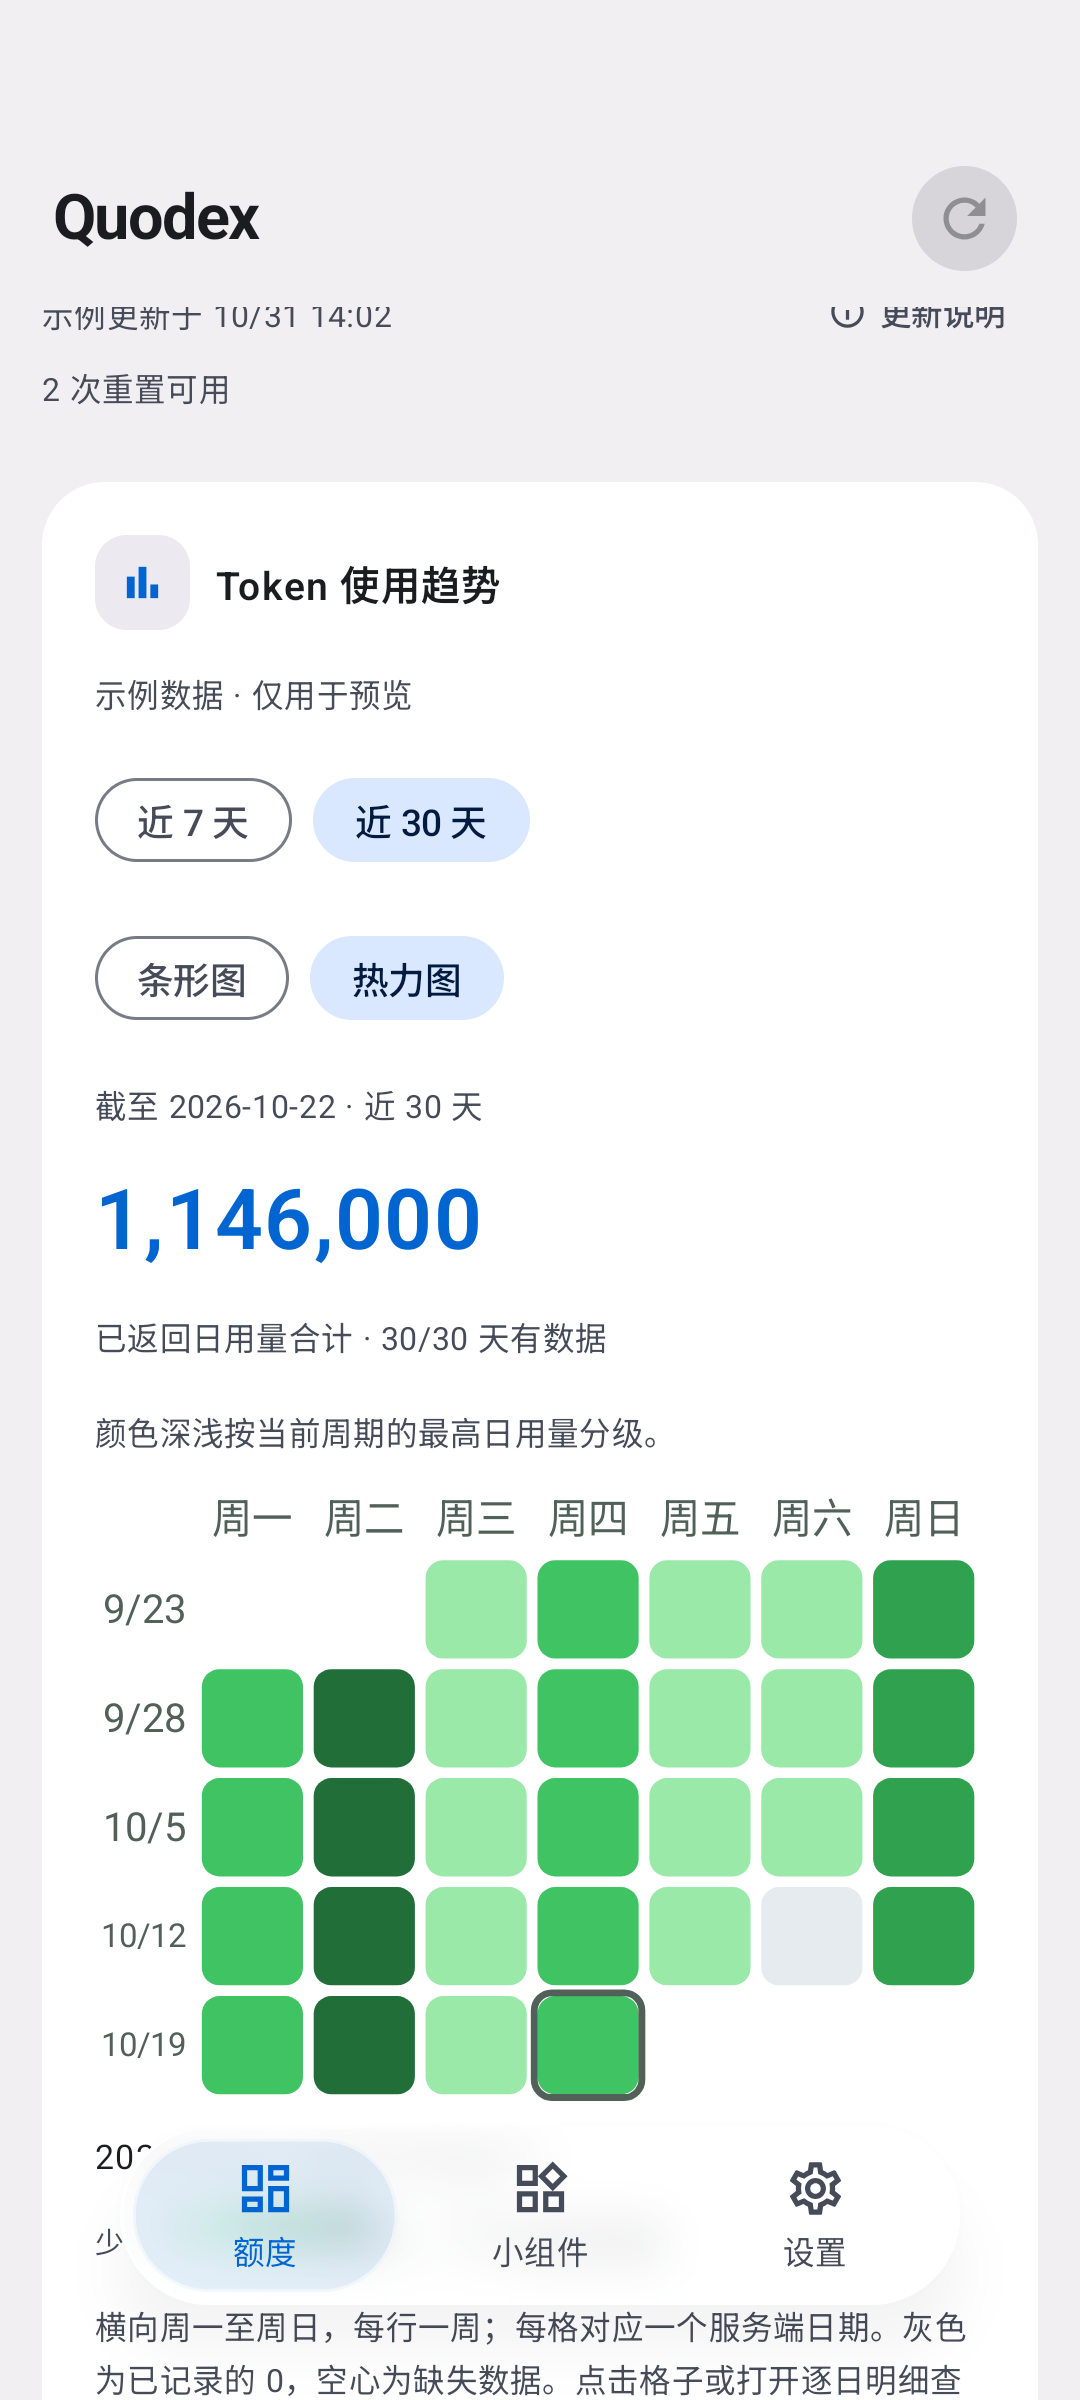
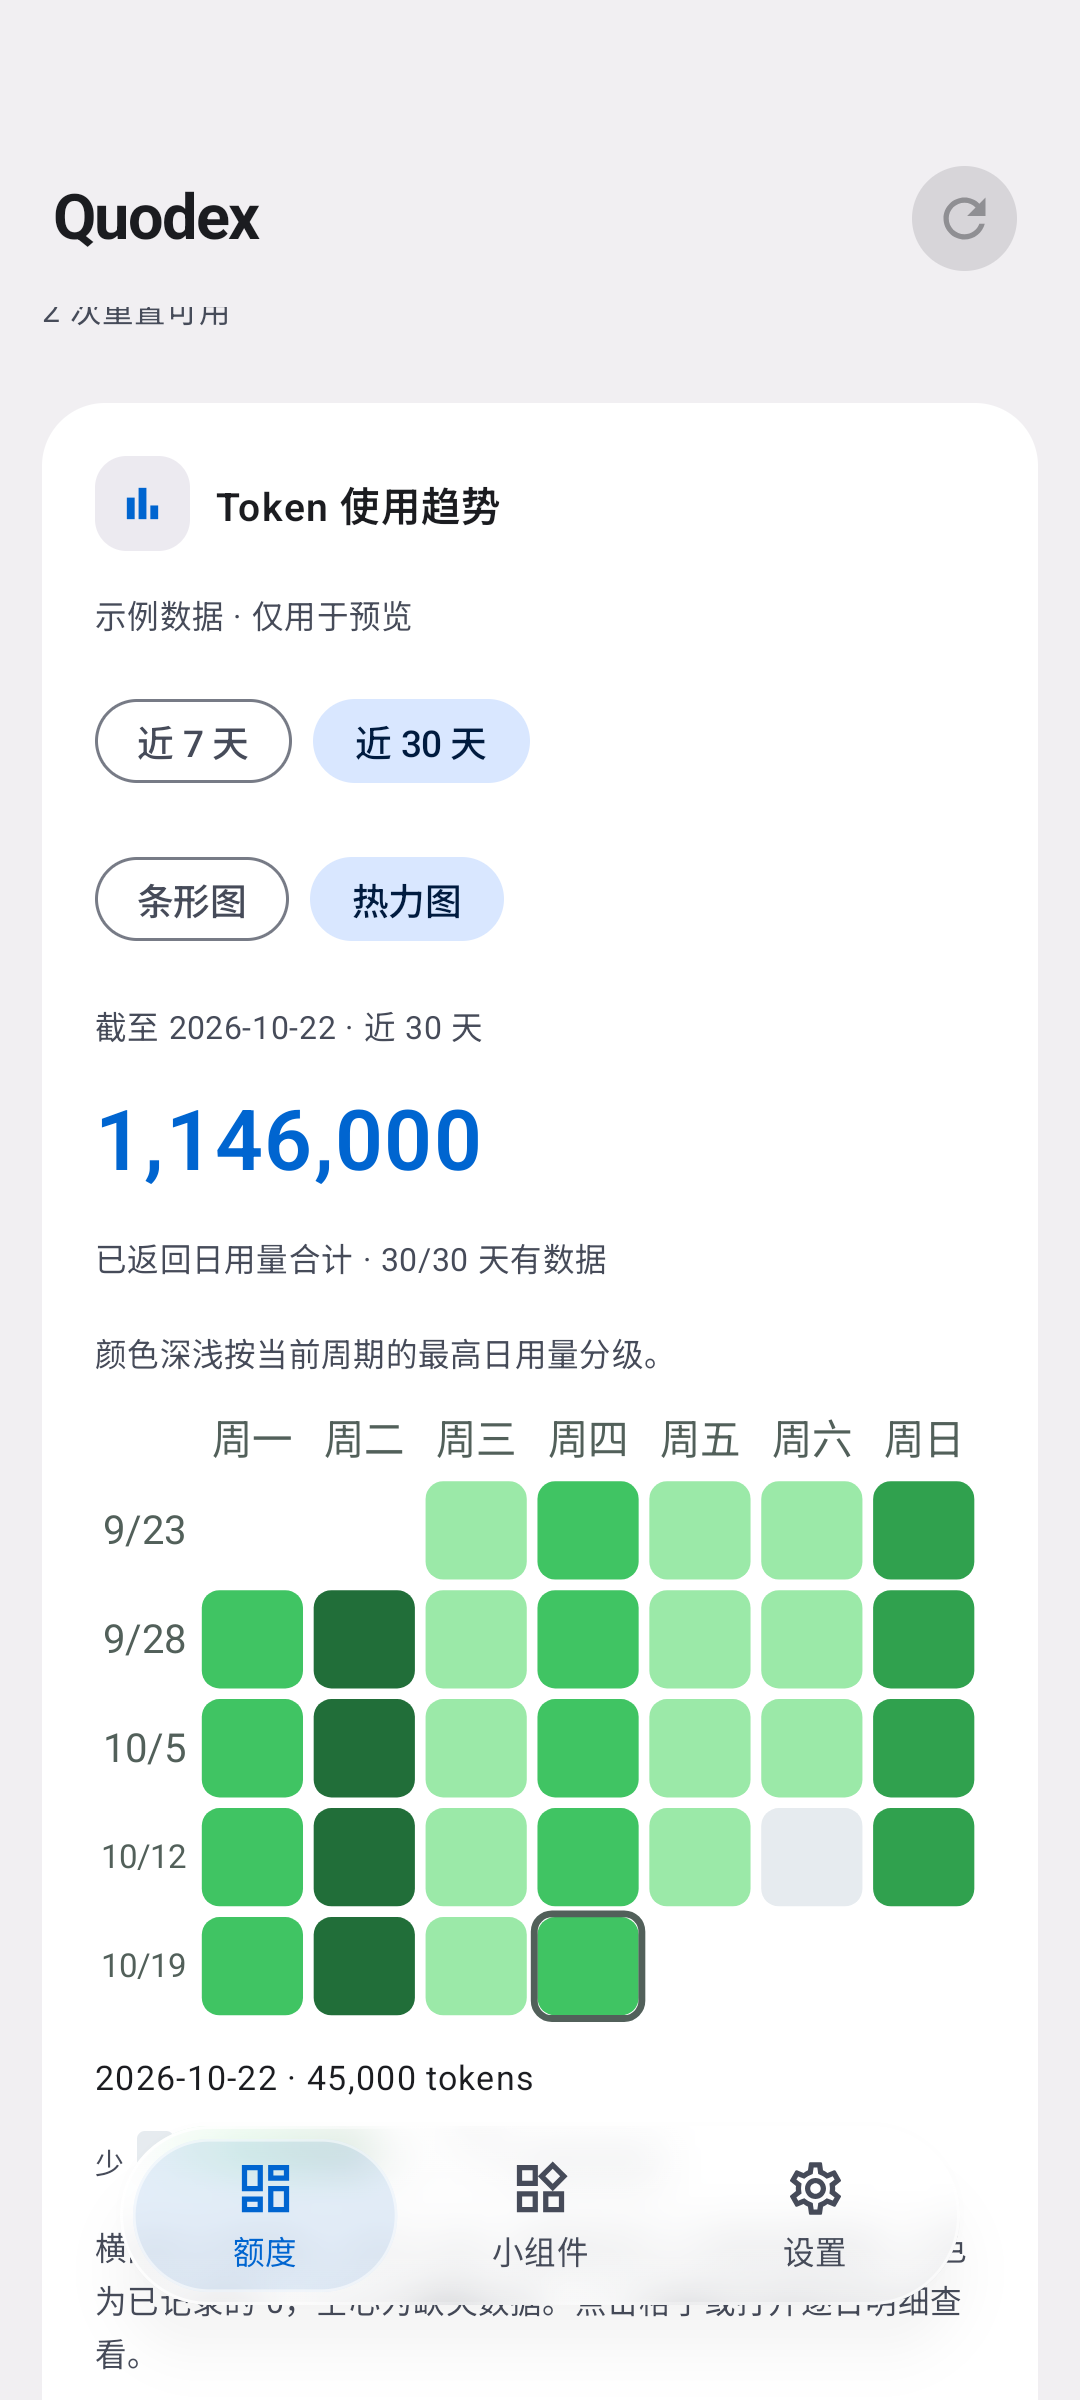
Verify multilingual widget layouts and refresh matching chart screenshots

Changed region(s): [[0.0611, 0.125, 0.9167, 1.0], [0.825, 0.125, 0.9167, 0.1562], [0.275, 0.9062, 0.3361, 0.9375]]

diff --git a/app/src/androidTest/java/com/tsonglew/quodex/TokenHeatmapWidgetDeviceTest.kt b/app/src/androidTest/java/com/tsonglew/quodex/TokenHeatmapWidgetDeviceTest.kt
@@ -38,7 +38,7 @@ class TokenHeatmapWidgetDeviceTest {
     private val texts get() = com.tsonglew.quodex.i18n.AndroidTextResources(context)
     private val refreshDescription get() = texts(R.string.refresh_token_statistics)
 
-    @Test fun minimumEnglishAndJapaneseWidgetsKeepAllLabelsVisible() = fixture {
+    @Test fun englishAndJapaneseWidgetsKeepAllLabelsVisible() = fixture {
         runBlocking { app.repository.demo() }
         fun select(tag: String) {
             ActivityScenario.launch(MainActivity::class.java).use { scenario ->
@@ -52,9 +52,17 @@ class TokenHeatmapWidgetDeviceTest {
         try {
             for (language in listOf("en", "ja")) {
                 select(language)
-                withHost(110, 110, "light") { scenario ->
-                    awaitLabels(scenario, "2026-10-22", texts(R.string.sample_data))
-                    verifyLayoutAndSave(scenario, "token-heatmap-widget-$language")
+                for ((width, height) in listOf(110 to 110, 160 to 160, 220 to 160)) {
+                    withHost(width, height, "light") { scenario ->
+                        awaitLabels(scenario, "2026-10-22", texts(R.string.sample_data))
+                        verifyLayoutAndSave(scenario, "token-heatmap-widget-$language-$width")
+                    }
+                }
+                withWidgetFontScale(2f) {
+                    withHost(220, 160, "light") { scenario ->
+                        awaitLabels(scenario, "2026-10-22", texts(R.string.sample_data))
+                        verifyLayoutAndSave(scenario, "token-heatmap-widget-$language-wide-large-font")
+                    }
                 }
             }
         } finally { select("zh-Hans") }

diff --git a/app/src/androidTest/java/com/tsonglew/quodex/TokenUsageDeviceTest.kt b/app/src/androidTest/java/com/tsonglew/quodex/TokenUsageDeviceTest.kt
@@ -134,8 +134,12 @@ class TokenUsageDeviceTest {
             assertTrue("Every period should fill the chart width", occupiedColumns.isNotEmpty() &&
                 occupiedColumns.last() - occupiedColumns.first() > bitmap.width * .80f)
             if (days == 7) sevenDayHeight = bitmap.height else assertTrue(bitmap.height > sevenDayHeight * 1.5)
+            compose.onNodeWithTag("heatmap-selected-day").performScrollToVisible(compose)
             screenshot("token-calendar-$days-demo-light")
         }
+        chooseChart("bars")
+        compose.onNodeWithTag("token-trend-chart").performScrollToVisible(compose)
+        screenshot("token-calendar-30-bars-demo-light")
     }
 
     @Test fun heatmapWidgetIntentReturnsFromSettingsAndShowsThirtyDays() {

diff --git a/README.md b/README.md
@@ -21,9 +21,9 @@
 
 | 30 日热力图 | 30 日条形图 | 2×2 桌面热力图 |
 | --- | --- | --- |
-| <img src="docs/screenshots/token-heatmap-app.png" width="260" alt="alpha31 横向七列的 30 日热力图与图表切换按钮，示例数据" /> | <img src="docs/screenshots/token-thirty-day-bars.png" width="260" alt="alpha30 同一 30 日范围切换为条形图，合成数据" /> | <img src="docs/screenshots/token-heatmap-widget.png" width="220" alt="alpha31 铺满内容宽度的浅色 2×2 热力图桌面组件，示例数据" /> |
+| <img src="docs/screenshots/token-heatmap-app.png" width="260" alt="alpha31 横向七列的 30 日热力图与图表切换按钮，示例数据" /> | <img src="docs/screenshots/token-thirty-day-bars.png" width="260" alt="alpha31 同一份 30 日示例数据切换为条形图" /> | <img src="docs/screenshots/token-heatmap-widget.png" width="220" alt="alpha31 铺满内容宽度的浅色 2×2 热力图桌面组件，示例数据" /> |
 
-热力图与小组件为 alpha31 debug 模拟器原生截图，使用示例数据；条形图沿用 alpha30 合成数据截图，该布局未改动。[热力图与切换说明](docs/TOKEN_HEATMAP.md)。已有桌面实例可能保留旧尺寸，缩小或重新添加即可使用 2×2 布局。
+以上为 alpha31 debug 模拟器原生截图，使用同一份示例数据；条形图布局未改动。[热力图与切换说明](docs/TOKEN_HEATMAP.md)。已有桌面实例可能保留旧尺寸，缩小或重新添加即可使用 2×2 布局。
 
 安装包、校验和与来源提交见 [GitHub Releases](https://github.com/tsonglew/Quodex/releases)。每次主分支发布须通过完整 CI 和固定签名验证，实际可安装版本以对应发布记录和 APK 附件为准。
 

diff --git a/docs/PROGRESS.md b/docs/PROGRESS.md
@@ -2,7 +2,7 @@
 
 更新日期：2026-10-31（Asia/Shanghai）。本轮代码版本为 `0.1.0-alpha31`：App 与桌面热力图统一改为横向七列日历布局，App 高度随周数调整，组件将更多空间留给图表。版本是否已发布以 [Releases](https://github.com/tsonglew/Quodex/releases) 的实际附件为准。
 
-本轮本地验证：204 项 JVM、55 项脚本、debug lint 与构建通过；API 37 热力图专项 11 项通过，1 项首次取数因模拟器网络未验证失败，完整设备 CI 待本轮 PR。README 与官网将同步新布局说明和实际截图。
+本轮本地验证：204 项 JVM、55 项脚本、debug lint 与构建通过；API 37 热力图专项 11 项通过，1 项首次取数因模拟器网络未验证失败，英文／日文宽组件 200% 字体补充检查也通过。完整设备 CI 与发布状态见 [PR #45](https://github.com/tsonglew/Quodex/pull/45)。README 已同步新布局说明和实际截图，官网同步 PR 在该 PR 中关联。
 
 上一轮验证记录：alpha30 公开预发布为 [0.1.0-alpha30](https://github.com/tsonglew/Quodex/releases/tag/build-41033042814-1)，源提交 `832b4da92cfd1f3e32d05f1b6d33a94d003bc712`，已合并 [PR #43](https://github.com/tsonglew/Quodex/pull/43)。近 7／30 天支持条形图与热力图互相切换并保存偏好；30 天热力图桌面组件默认 2×2。已包含中英日三语、玻璃导航、小米桌面权限提醒、应用内更新和有限网络重试。
 

diff --git a/docs/SCREENSHOTS.md b/docs/SCREENSHOTS.md
@@ -2,7 +2,7 @@
 
 ## alpha31 日历式热力图（2026-10-31）
 
-[App 与桌面组件截图](TOKEN_HEATMAP.md#验证)来自 alpha31 debug / API 37 模拟器，使用示例数据。App 为 Compose 原生屏幕捕获，组件由真实 AppWidgetHost 绘制并原样保存；不是设计稿或真实账号数据。热力图按周一至周日横向铺满，App 高度随周数变化，2×2 与宽版组件保留更多图表空间。条形图布局未改，继续使用已标注来源的 alpha30 截图。
+[App 与桌面组件截图](TOKEN_HEATMAP.md#验证)来自 alpha31 debug / API 37 模拟器，使用示例数据。App 为 Compose 原生屏幕捕获，组件由真实 AppWidgetHost 绘制并原样保存；不是设计稿或真实账号数据。热力图按周一至周日横向铺满，App 高度随周数变化，2×2 与宽版组件保留更多图表空间。条形图布局未改，本次同样重新截取了相同示例数据的 30 日条形图。
 
 ## alpha22 动效录屏（2026-10-26）
 
